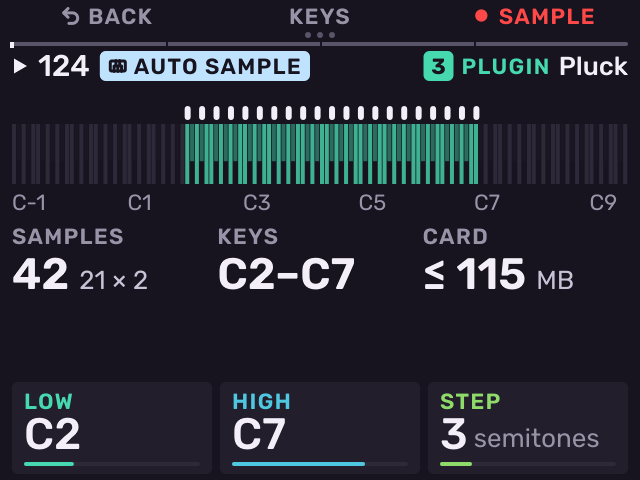
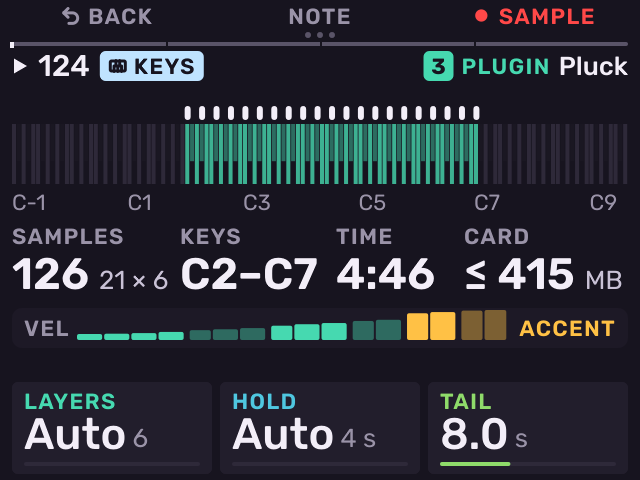
docs(melodee): AUTO SAMPLE guide screens show LAYERS at Auto, the VEL row and TIME, MELODEE.md describes eight layers and mono WAVs; the eight-layer track file test's program carries Mono Retrig as the auto sampler writes it

diff --git a/tests/test_mpc3_export.py b/tests/test_mpc3_export.py
@@ -311,7 +311,7 @@ class Mpc3Export(unittest.TestCase):
                            f"<SampleName>{name}</SampleName><SliceStart>0</SliceStart><SliceEnd>40000</SliceEnd></Layer>")
             (data / "Keys.all.xpm").write_text(
                 "<?xml version=\"1.0\" encoding=\"UTF-8\"?><MPCVObject><Program type=\"Keygroup\"><ProgramName>Keys</ProgramName>"
-                "<KeygroupNumKeygroups>1</KeygroupNumKeygroups><Instruments><Instrument number=\"1\"><LowNote>0</LowNote>"
+                "<Mono>False</Mono><MonoRetrigger>False</MonoRetrigger><KeygroupNumKeygroups>1</KeygroupNumKeygroups><Instruments><Instrument number=\"1\"><LowNote>0</LowNote>"
                 "<HighNote>127</HighNote><TriggerMode>2</TriggerMode><VelocitySensitivity>0.5</VelocitySensitivity><Layers>"
                 + layers + "</Layers></Instrument></Instruments></Program></MPCVObject>")
             track_file = Path(folder) / "Keys.xty"

diff --git a/docs/MELODEE.md b/docs/MELODEE.md
@@ -1087,7 +1087,10 @@ first).
 **Auto sample.** The print host also samples a plug-in track's
 instrument into an MPC keygroup program (`shell/auto_sample.h`): one
 root every few semitones (MIDI 36–96, every 3, by default), each in up
-to four velocity layers, the key held for a set time (2 s) and let go,
+to eight velocity layers (LAYERS at Auto: as many as the check's sixteen
+hits of one key need, split where their tone changes, an accent starting
+a layer; `probe_layers()`, `engine/auto_probe.h`), the key held for a set
+time (2 s) and let go,
 its release kept until it falls below -70 dB (8 s at most). The sound is
 taken before the track's chain (Pre FX) or after it (Post FX). With
 LOOP each sample gets a loop in its held part (`engine/loop_find.h`):
@@ -1096,7 +1099,8 @@ start the crossing 0.1–1 s earlier whose 20 ms before it best match the
 20 ms before the end, never in the hold's first quarter, crossfaded over
 up to 50 ms; no loop under a match of 0.6. Samples are kept as 32-bit
 float in `.parts/` until all are made, then written as 24-bit WAVs at
-the device's rate, `<name>-C4-V127.wav`, with one gain for the whole
+the device's rate (one channel where both sides are the same),
+`<name>-C4-V127.wav`, with one gain for the whole
 program when LEVEL is −1 dB (its loudest sample at -1 dB, 24 dB at
 most), and the program `<name>.xpm` beside them: the MPC 2
 XML with the MPC's own layout (128 instruments, four layers each, the
@@ -1107,7 +1111,9 @@ program as MPC 3's track file (`write_mpc3_track()`, `shell/mpc3_export.h`:
 the MPC 3 export's Keygroup track on its own, gzip under a
 SerialisableTrackData header). MPC 3 looks for a track file's samples in
 `<name>_[TrackData]` and an .xpm's beside it, so one copy of the files
-serves both; the .xty holds what MPC 2's .xpm cannot (Mono Retrig).
+serves both; the .xty holds what MPC 2's .xpm cannot (Mono Retrig, more
+than four layers a keygroup: the .xpm then keeps four, each playing a run
+of them, `xpm_layers()`, and the keygroup track plays the .xty).
 Melodee's browser shows the .xty (the folder is the file's own and is
 hidden); the new track plays the .xpm. A take per key more than one
 (ZonePlay Cycle) is in the .xpm only. `--mpc-track PROGRAM.xpm FILE.xty`
